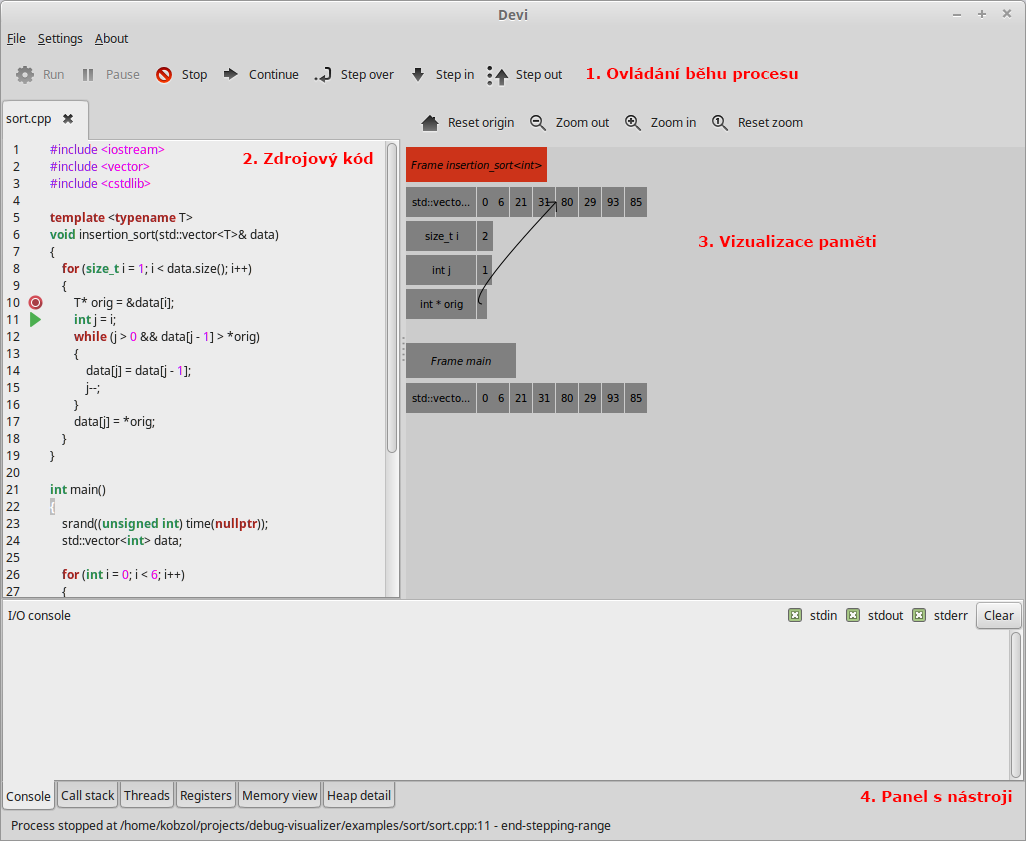
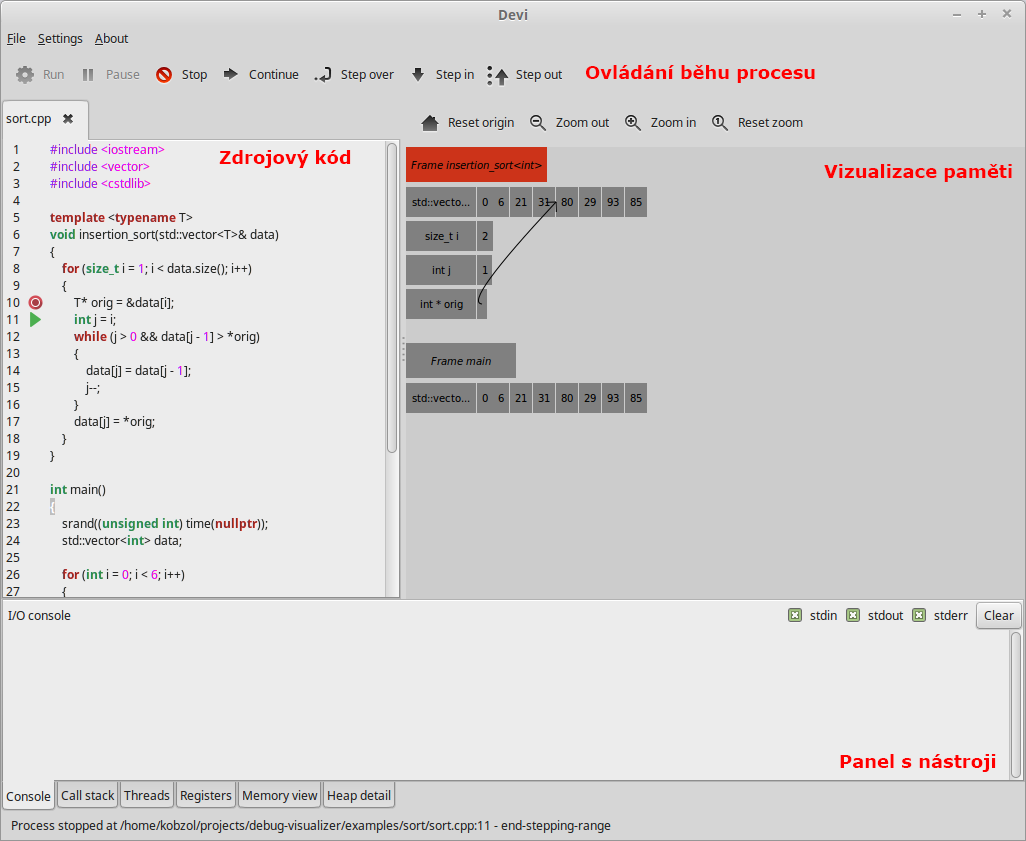
ENH: changed Devi GUI screenshot and slightly changed manual attachment

diff --git a/thesis/prace.tex b/thesis/prace.tex
@@ -26,7 +26,7 @@
 \renewcommand\finalnamedelim{\addspace\mainsstring{and}\space}
 
 \newcommand{\parspace}[1][]{
-	\ifthenelse{\isempty{#1}}{\vspace{5mm}}{\vspace{#1}}
+	\ifthenelse{\isempty{#1}}{\vspace{0mm}}{\vspace{#1}}
 	\par
 }
 
@@ -489,7 +489,8 @@ a~zkoumat takto rychle se měnící datový tok by bylo obtížné. Proces lze z
 			můžou být odesílány v~různých formátech (popř. jsou místo nich dosazeny chybové hlášky), a~toto chování není nikde zcela zdokumentováno.
 			Může se tedy stát, že GDB vrátí data, která nepůjdou zpracovat a~budou ignorována.
 			
-			\parspace Struktura MI zpráv je velmi podobná syntaxi formátu JSON\footnote{http://www.json.org}, který je jedním ze standardních formátů pro výměnu dat.
+			\parspace Struktura MI zpráv je velmi podobná syntaxi datového formátu JSON, který je v době psaní této práce jedním ze standardních formátů pro výměnu
+			dat\footnote{http://www.json.org}.
 			Rozhodl jsem se tedy tyto zprávy nejprve předzpracovat a~poté je zpracovat JSON parserem. Může se stát, že některé zprávy obsahující výše popsané 
 			nezdokumentované hodnoty nebudou správně zpracovány, nicméně stejný problém by existoval, i~kdybych si napsal vlastní parser, proto jsem usoudil, že je
 			toto řešení dostatečné. Komunikační knihovna poskytuje funkci pro odeslání příkazu, která jej odešle do GDB, počká, než jí přijde odpověď, která musí po
@@ -645,7 +646,10 @@ a~zkoumat takto rychle se měnící datový tok by bylo obtížné. Proces lze z
 	\paragraph*{Jednoduché datové typy} Primitivní datové typy (čísla, znaky atd.), řetězce, výčtové typy (enumerace) a~typy, které nelze plně vizualizovat
 	(funkce), jsou zobrazeny klasickým textovým popisem. Při kliknutí na ně se zobrazí textový vstup, pomocí kterého lze změnit jejich hodnota.
 	\paragraph*{Ukazatele} Ukazatele a~reference jsou vizualizovány šipkou (její dráha je určena kubickou Bézierovou křivkou), která ukazuje na objekt na adrese
-	dané ukazatelem či referencí. % TODO: drag and drop?
+	dané ukazatelem či referencí. Kliknutím na ukazatel a přetáhnutím kurzoru na jinou proměnnou lze změnit hodnotu ukazatele na její adresu.
+	\textit{Devi} umí zkontrolovat, jestli se typ cílové proměnné shoduje s typem ukazatele, a tedy jestli je tato akce validní. Nicméně změna hodnoty
+	ukazatele není v programu nijak limitována, protože pro potřeby ladění je někdy užitečné s ukazateli provést i operace, které vyžadují přetypování anebo
+	které nejsou zcela validní.
 	\paragraph*{Složené datové typy} Struktury, třídy a~svazy (typ \texttt{union}) jsou reprezentovány hierarchicky. U~každého atributu struktury je zobrazen jeho
 	název a~hodnota, jejíž podoba závisí na jeho datovém typu. Jelikož mapování proměnných na kreslitelné objekty probíhá rekurzivně, lze takto zobrazit
 	libovolně zanořené hierarchické struktury.
@@ -769,17 +773,17 @@ Jakub Beránek
 \appendix
 \begin{section}{Struktura projektu a~instalační manuál}
 \label{appendix:manual}
-	Projekt, který je přiložen na DVD, má následující adresářovou strukturu.
+	Soubory na přiloženém CD jsou uspořádány do následující adresářové struktury.
 	
 	\vspace{5mm}
 	
 	\dirtree{%
-	.1 /.
+	.1 /\DTcomment{instalační a spouštěcí skript a soubory s licensemi}.
 	.2 debugger\DTcomment{zdrojové kódy komunikační knihovny}.
 	.3 analysis\DTcomment{analýza kódu}.
 	.3 gdbc\DTcomment{komunikace s~GDB pomocí GDB Python API}.
 	.3 lldbc\DTcomment{komunikace s~LLDB pomocí LLDB Python API}.
-	.3 mi\DTcomment{komunikace s~GDB pomocí textového MI rozhraní}.
+	.3 mi\DTcomment{komunikace s~GDB pomocí rozhraní MI}.
 	.3 net\DTcomment{síťová komunikace mezi debuggerem a~klientem}.
 	.3 pycgdb\DTcomment{experimentální implementace debuggeru v~Pythonu}.
 	.2 examples\DTcomment{ukázky jednoduchých programů pro vyzkoušení \textit{Devi}}.
@@ -791,11 +795,13 @@ Jakub Beránek
 	.3 img\DTcomment{obrázky}.
 	.2 tests\DTcomment{unit testy}.
 	.3 src\DTcomment{zdrojové kódy C++ aplikací pro unit testy}.
+	.2 thesis\DTcomment{PDF soubor s textem této práce}.
 	.2 util\DTcomment{pomocné skripty}.
 	}
 	
-	\parspace Pro kompletní instalaci programu je nutné mít GTK3+ (verze 3.10.8 nebo vyšší), překladač C++ a~Pythonovské balíčky \texttt{enum},
-	\texttt{matplotlib} a~\texttt{clang}. Pro spuštění testů je potřeba balíček \texttt{pytest} (ve verzi pro Python 2)
+	\parspace Pro kompletní instalaci programu je nutné mít GTK3 (verze 3.10.8 nebo vyšší), překladač C++ a~Pythonovské balíčky \texttt{enum34},
+	\texttt{matplotlib} a~\texttt{clang}. Dále jsou požadovány (Debian) balíčky \texttt{texinfo} a \texttt{python-dev}.
+	Pro spuštění testů je potřeba balíček \texttt{pytest} (ve verzi pro Python 2)
 	a~pro vygenerování dokumentace balíček \texttt{epydoc}. O~sestavení programu se stará program \textit{waf}. Pro jeho použití stačí spustit v~interpreteru
 	příkazové řádky ve složce projektu \texttt{./waf <příkaz>}. Je možné pro něj použít následující příkazy.
 	
@@ -809,10 +815,12 @@ Jakub Beránek
 	
 	\parspace Pro rychlou instalaci lze použít přiložený skript \texttt{install.sh}, který provede \textit{waf} příkazy \texttt{download}, \texttt{configure}
 	a~\texttt{build} (v~tomto pořadí).
-	Pro otestování aplikace lze použít příkaz \texttt{py.test} ve složce tests. Pro kompilaci testovacích programů v~jazyce C++ je na 64-bitových systémech
-	potřeba nainstalovat balíček \texttt{g++-multilib}.
+	Aplikaci lze otestovat pomocí příkazu \texttt{py.test} ve složce tests. Kompilace C++ programů pro unit testy vyžaduje na 64-bitových systémech
+	balíček \texttt{g++-multilib}.
 	\textit{Devi} lze spustit pomocí skriptu \texttt{start.sh} v~kořenovém adresáři projektu anebo spuštěním Python skriptu \texttt{initialize.py}
 	ve složce \texttt{gui}. Lze mu předat jeden parametr příkazové řádky, a~to cestu ke spustitelnému souboru, který po spuštění aplikace v~\textit{Devi} načte.
+	Binární soubory příkladů, které jsou umístěny ve složce \textit{examples}, lze po sestavení projektu najít ve složce \textit{build/examples}.
+	Příklady lze opětovně přeložit pomocí příkazu \texttt{./waf build}.
 \end{section}
 
 \begin{section}{Ukázky grafických rozhraní debuggerů}
